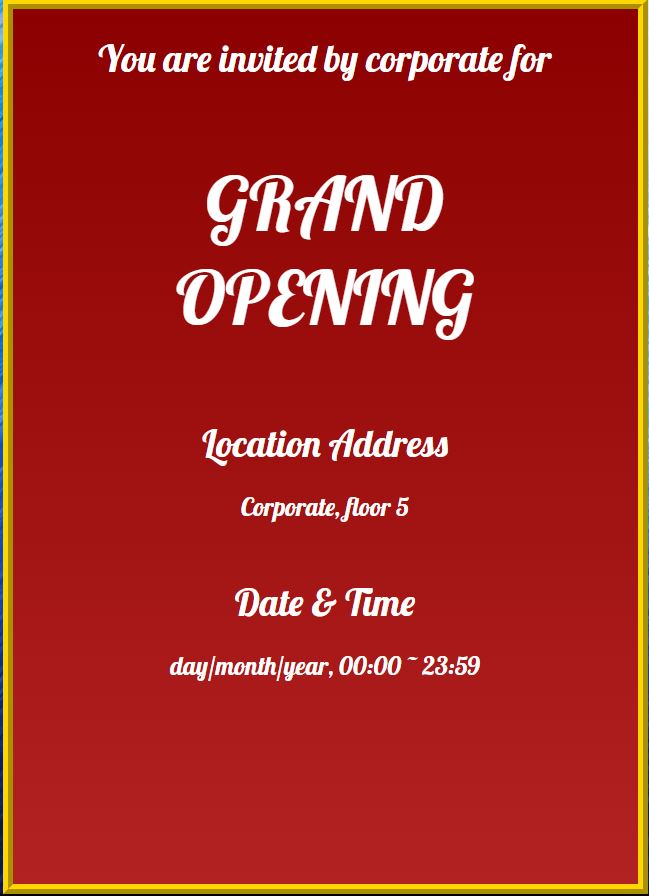
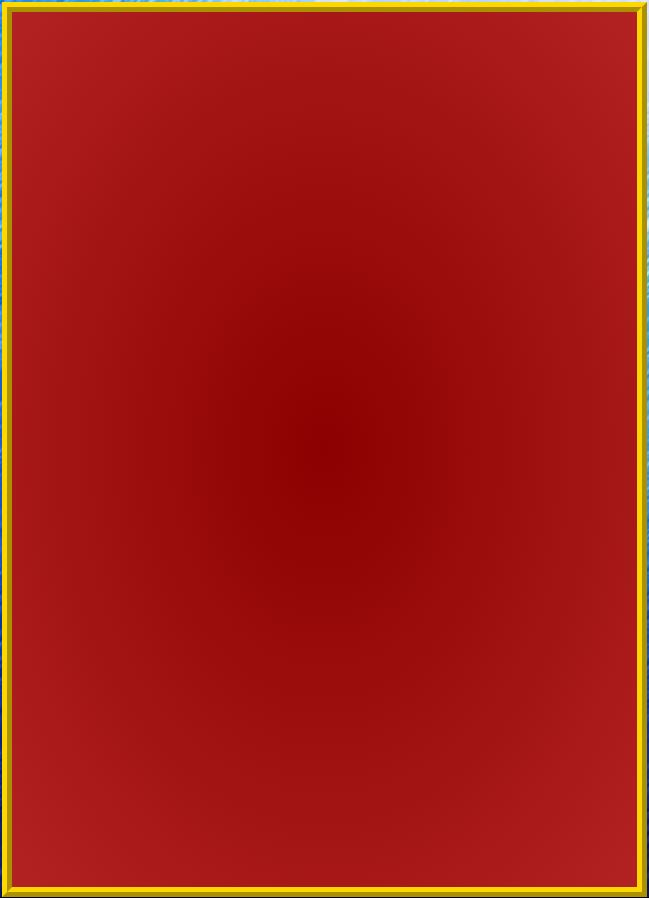
update the sample picture

diff --git a/Assignment.html b/Assignment.html
@@ -132,7 +132,7 @@ fieldset{
 
         <div class="template-list">
           <div>
-          <a href="Template.jpg">  <img src="Corporate2.jpg" alt="Corporate 2" width="240px" height="300px" > </a>
+          <a href="Template.jpg">  <img src="Template.jpg" alt="Corporate 2" width="240px" height="300px" > </a>
             <div><a href="CorporateTemplate2.html">Edit this template</a></div>
           </div>
           <picture><source media="(max-width: 400px)" srcset="  ">

diff --git a/CorporateTemplate1.html b/CorporateTemplate1.html
@@ -19,7 +19,7 @@ body{
     border:8px ridge gold;
     height: 700px;
     width: 500px;
-    background-image: linear-gradient(to top, #B22222,#8b0000);
+    background-image: radial-gradient( #8b0000,#B22222);
     color: white;
     padding: 0;
     margin: 0 auto;
